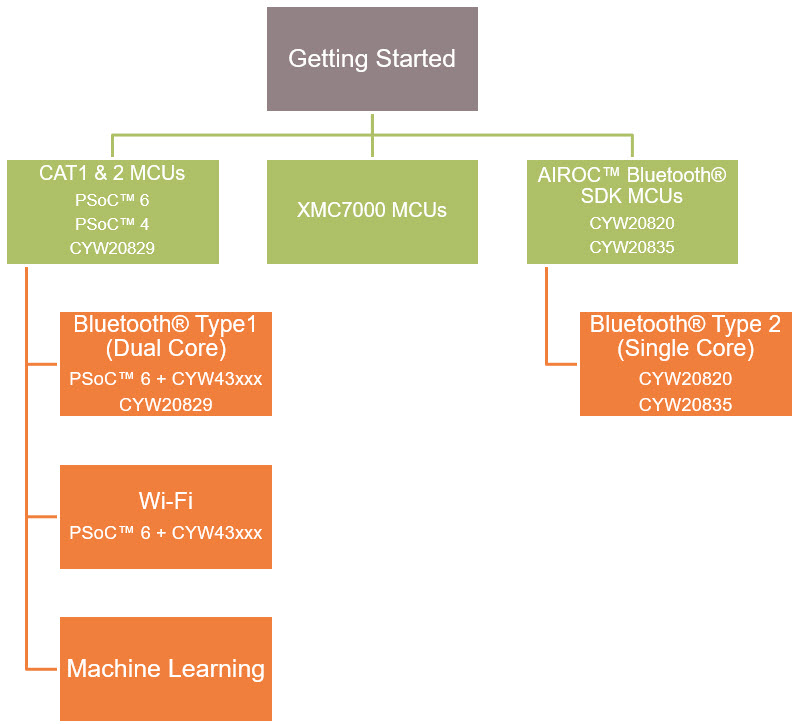
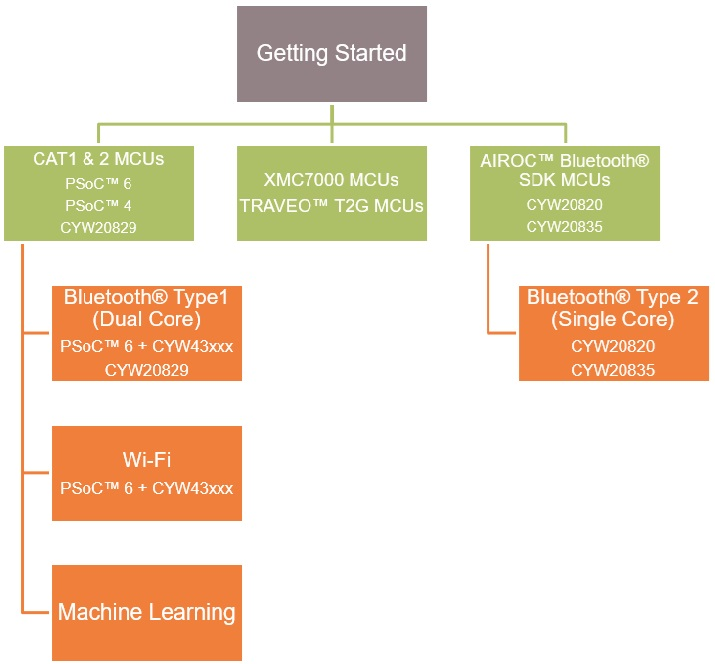
Added TRAVEO T2G

diff --git a/README.md b/README.md
@@ -21,9 +21,9 @@ The level 1 getting started class covers the basic concepts and building blocks 
 UARTs, etc. CAPSENSE™ and DMA are covered in detail, as is the use of low power modes.
 
 
-[ModusToolbox™ Software Training Level 2 – XMC7000 MCUs](https://github.com/infineon/training-modustoolbox-level2-xmc7x)
+[ModusToolbox™ Software Training Level 2 – XMC7000 and TRAVEO T2G MCUs](https://github.com/infineon/training-modustoolbox-level2-xmc7x)
 
-- This is a 2nd level ModusToolbox™ training class. It covers XMC7000 MCUs.
+- This is a 2nd level ModusToolbox™ training class. It covers XMC7000 and TRAVEO™ T2G MCUs.
 
 - The material and examples demonstrate the use of peripherals such as GPIO, PWM, ADC, UART, I2C, and SPI. Some examples use
 sensors from a separate shield board. The class also covers RTOS, DMA and how multicore pplications work.
